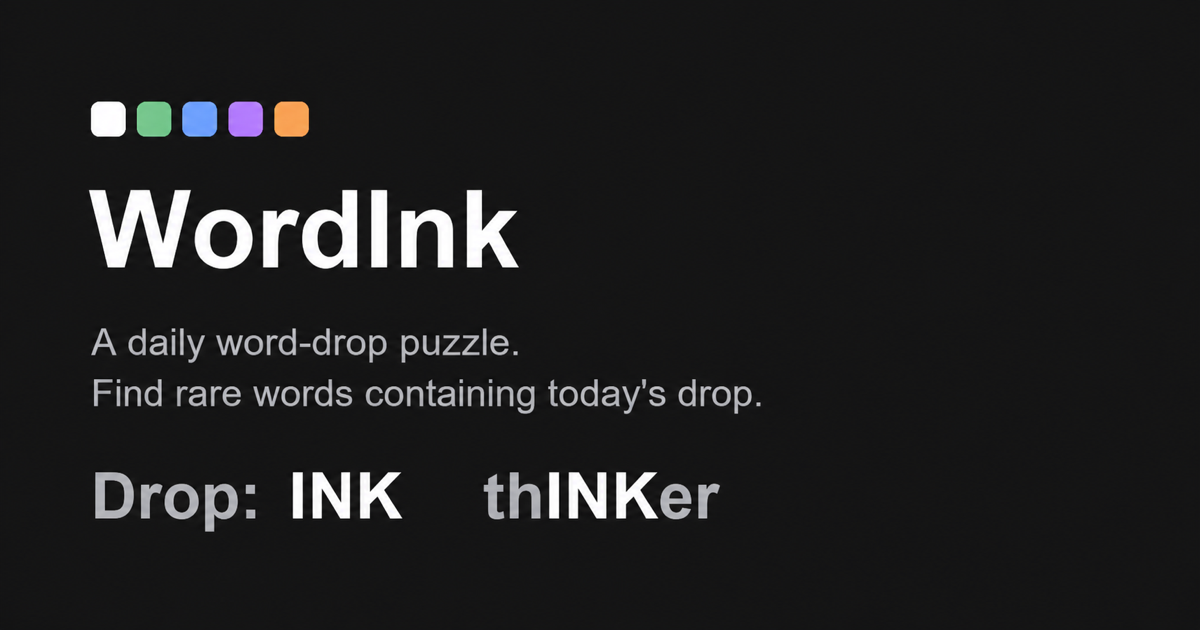
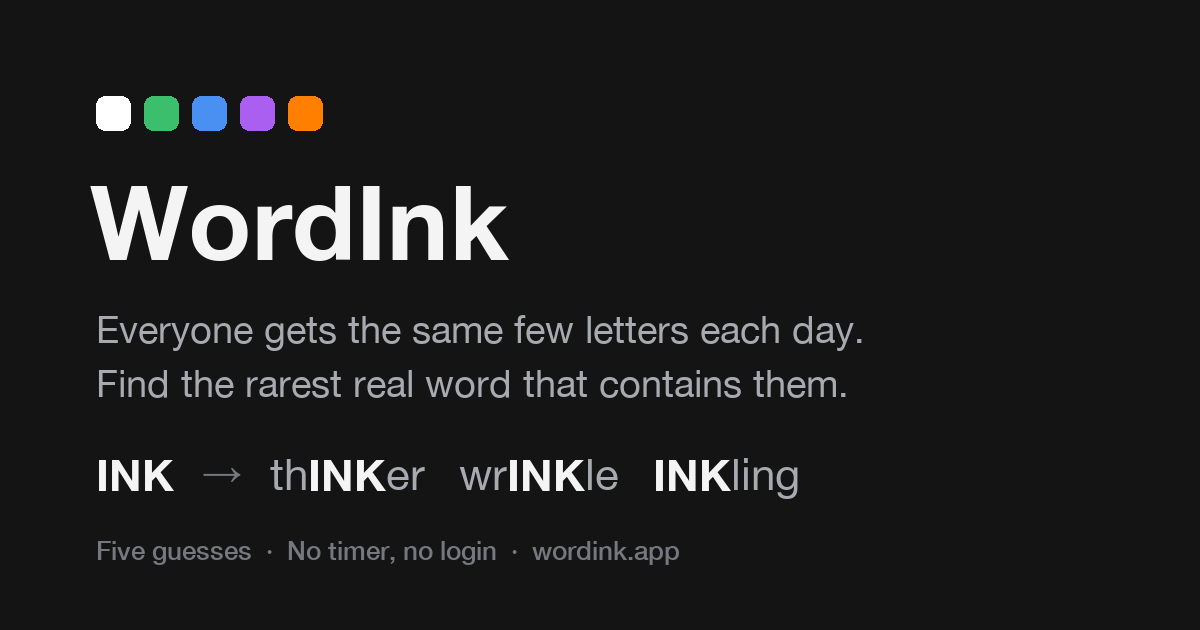
Explain the game in the preview image, without "drop"
The share card said "word-drop puzzle" and "Drop: INK" -- our vocabulary,
aimed at someone who has never played. It now states the rule in plain
words and shows INK hiding inside three real answers, with a footer
noting the five-guess limit.

The old card was a hand-made PNG that nobody could regenerate, so this
adds scripts/make-og-image.py and renders it from the copy in that file.

diff --git a/scripts/make-og-image.py b/scripts/make-og-image.py
@@ -1,0 +1,139 @@
+#!/usr/bin/env python3
+"""Render public/og-image.png, the link-preview card for wordink.app.
+
+The card used to be a hand-made PNG, so every copy change meant editing an
+image nobody could regenerate. This draws it from the values below instead:
+tweak the copy, re-run, commit the result.
+
+    python3 scripts/make-og-image.py
+
+Copy rule: the card is the first thing someone sees, usually in a group chat
+they did not ask to be recruited into, so it explains the game without any of
+our vocabulary. No "drop", no "infix" -- just the letters and what to do with
+them.
+"""
+
+from pathlib import Path
+
+from PIL import Image, ImageDraw, ImageFont
+
+# Open Graph's canonical size. Slack, iMessage and Twitter all crop from this.
+WIDTH, HEIGHT = 1200, 630
+MARGIN = 96
+
+BG = (20, 20, 20)
+FG = (244, 244, 245)
+FG_MUTED = (167, 170, 176)
+FG_FAINT = (117, 120, 126)
+
+# The rarity-tier dots from src/index.css (dark theme), in tier order. They read
+# as "this game has a loot scale" before a single word is read.
+DOTS = [
+    (255, 255, 255),  # quotidian
+    (59, 191, 108),  # uncommon
+    (74, 143, 242),  # rare
+    (171, 95, 240),  # extremely rare
+    (255, 128, 0),  # legend
+]
+DOT_SIZE = 34
+DOT_GAP = 14
+DOT_RADIUS = 9
+
+# Libre Franklin and Karla are webfonts we do not ship, and a preview card is
+# never rendered in a browser, so this borrows the closest thing macOS has.
+FONT_DIR = Path("/System/Library/Fonts")
+DISPLAY = FONT_DIR / "HelveticaNeue.ttc"
+BODY = FONT_DIR / "HelveticaNeue.ttc"
+# Face indexes inside the .ttc.
+BOLD, REGULAR, MEDIUM = 1, 0, 10
+# Helvetica Neue has no U+2192, so the arrow is borrowed from a face that does.
+ARROW_FONT = FONT_DIR / "Supplemental" / "Arial.ttf"
+
+WORDMARK = "WordInk"
+LINES = [
+    "Everyone gets the same few letters each day.",
+    "Find the rarest real word that contains them.",
+]
+# The example carries the whole rule, so it is spelled out rather than labelled:
+# these letters, hiding inside these words.
+EXAMPLE_LETTERS = "INK"
+EXAMPLE_WORDS = [("th", "INK", "er"), ("wr", "INK", "le"), ("", "INK", "ling")]
+FOOTER = "Five guesses  ·  No timer, no login  ·  wordink.app"
+
+
+def font(path: Path, index: int, size: int) -> ImageFont.FreeTypeFont:
+    return ImageFont.truetype(str(path), size=size, index=index)
+
+
+def draw_dots(draw: ImageDraw.ImageDraw, x: int, y: int) -> None:
+    for i, color in enumerate(DOTS):
+        left = x + i * (DOT_SIZE + DOT_GAP)
+        draw.rounded_rectangle(
+            (left, y, left + DOT_SIZE, y + DOT_SIZE), DOT_RADIUS, fill=color
+        )
+
+
+def draw_runs(
+    draw: ImageDraw.ImageDraw,
+    x: int,
+    y: int,
+    runs: list[tuple[str, ImageFont.FreeTypeFont, tuple[int, int, int]]],
+) -> int:
+    """Draw text pieces on one baseline, returning where the line ended."""
+    for text, text_font, color in runs:
+        draw.text((x, y), text, font=text_font, fill=color)
+        x += int(draw.textlength(text, font=text_font))
+    return x
+
+
+def render() -> Image.Image:
+    image = Image.new("RGB", (WIDTH, HEIGHT), BG)
+    draw = ImageDraw.Draw(image)
+
+    wordmark_font = font(DISPLAY, BOLD, 104)
+    line_font = font(BODY, REGULAR, 38)
+    example_base = font(BODY, REGULAR, 44)
+    example_hit = font(BODY, BOLD, 44)
+    letters_font = font(DISPLAY, BOLD, 44)
+    arrow_font = font(ARROW_FONT, 0, 40)
+    footer_font = font(BODY, MEDIUM, 26)
+
+    draw_dots(draw, MARGIN, 96)
+    draw.text((MARGIN - 6, 158), WORDMARK, font=wordmark_font, fill=FG)
+
+    y = 306
+    for line in LINES:
+        draw.text((MARGIN, y), line, font=line_font, fill=FG_MUTED)
+        y += 54
+
+    # "INK" alone, then the same three letters found inside real words.
+    y = 448
+    x = draw_runs(draw, MARGIN, y, [(EXAMPLE_LETTERS, letters_font, FG)])
+    x = draw_runs(draw, x + 28, y, [("→", arrow_font, FG_FAINT)])
+    x += 28
+    for i, (before, hit, after) in enumerate(EXAMPLE_WORDS):
+        if i:
+            x += 34
+        x = draw_runs(
+            draw,
+            x,
+            y,
+            [
+                (before, example_base, FG_MUTED),
+                (hit, example_hit, FG),
+                (after, example_base, FG_MUTED),
+            ],
+        )
+
+    draw.text((MARGIN, HEIGHT - 96), FOOTER, font=footer_font, fill=FG_FAINT)
+    return image
+
+
+def main() -> None:
+    out = Path(__file__).resolve().parent.parent / "public" / "og-image.png"
+    render().save(out, optimize=True)
+    print(f"wrote {out} ({out.stat().st_size // 1024} KB)")
+
+
+if __name__ == "__main__":
+    main()
